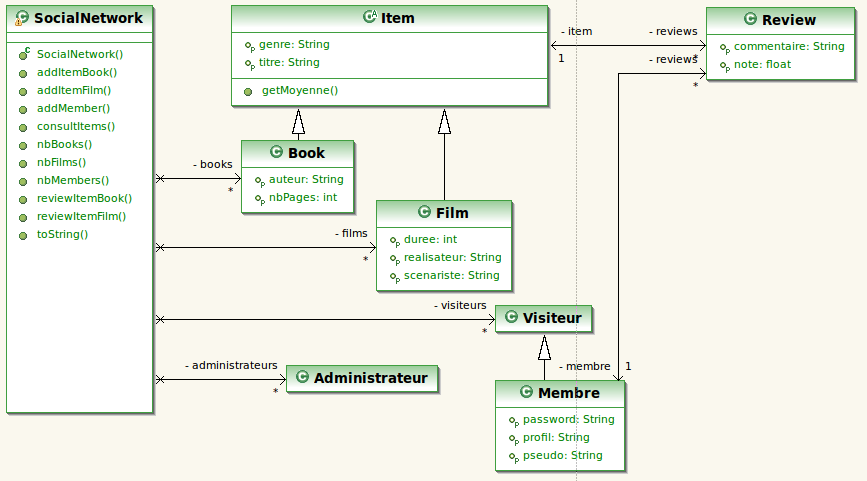
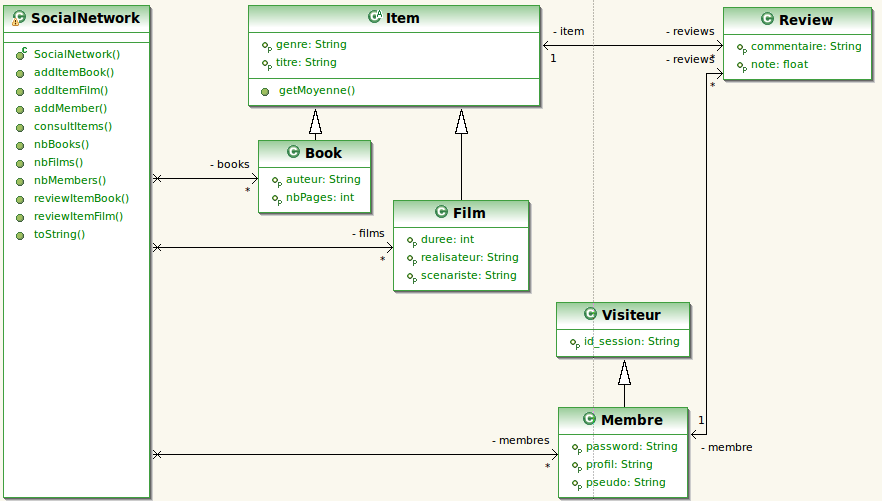
Petite correction

Changed region(s): [[0.0, 0.0, 0.9965, 1.0], [0.218, 0.7484, 0.5294, 0.842], [0.2491, 0.0, 0.3114, 0.0624]]

diff --git a/src/avis/SocialNetwork.java b/src/avis/SocialNetwork.java
@@ -249,59 +249,6 @@ public class SocialNetwork {
 
 
 	/**
-	 * @uml.property  name="visiteurs"
-	 * @uml.associationEnd  multiplicity="(0 -1)" dimension="1" ordering="true" inverse="socialNetwork:avis.Visiteur"
-	 */
-	private LinkedList<Visiteur> visiteurs;
-
-
-	/**
-	 * Getter of the property <tt>visiteurs</tt>
-	 * @return  Returns the visiteurs.
-	 * @uml.property  name="visiteurs"
-	 */
-	public LinkedList<Visiteur> getVisiteurs() {
-		return visiteurs;
-	}
-
-	/**
-	 * Setter of the property <tt>visiteurs</tt>
-	 * @param visiteurs  The visiteurs to set.
-	 * @uml.property  name="visiteurs"
-	 */
-	public void setVisiteurs(LinkedList<Visiteur> visiteurs) {
-		this.visiteurs = visiteurs;
-	}
-
-
-	/**
-	 * @uml.property  name="administrateurs"
-	 * @uml.associationEnd  multiplicity="(0 -1)" dimension="1" ordering="true" inverse="socialNetwork:avis.Administrateur"
-	 */
-	private LinkedList<Administrateur> administrateurs;
-
-
-	/**
-	 * Getter of the property <tt>administrateurs</tt>
-	 * @return  Returns the administrateurs.
-	 * @uml.property  name="administrateurs"
-	 */
-	public LinkedList<Administrateur> getAdministrateurs() {
-		return administrateurs;
-	}
-
-	/**
-	 * Setter of the property <tt>administrateurs</tt>
-	 * @param administrateurs  The administrateurs to set.
-	 * @uml.property  name="administrateurs"
-	 */
-	public void setAdministrateurs(LinkedList<Administrateur> administrateurs) {
-		this.administrateurs = administrateurs;
-	}
-
-
-
-	/**
 	 * @uml.property  name="books"
 	 * @uml.associationEnd  multiplicity="(0 -1)" dimension="1" ordering="true" inverse="socialNetwork:avis.Book"
 	 */
@@ -311,10 +258,11 @@ public class SocialNetwork {
 	 * @uml.associationEnd  multiplicity="(0 -1)" dimension="1" ordering="true" inverse="socialNetwork:avis.Film"
 	 */
 	private LinkedList<Film> films;
-
-
-
-
+	/**
+	 * @uml.property  name="membres"
+	 * @uml.associationEnd  multiplicity="(0 -1)" dimension="1" ordering="true" inverse="socialNetwork:avis.Membre"
+	 */
+	private LinkedList<Membre> membres;
 
 
 }

diff --git a/src/avis/Visiteur.java b/src/avis/Visiteur.java
@@ -3,4 +3,27 @@ package avis;
 
 public class Visiteur {
 
+	/**
+	 * @uml.property  name="id_session"
+	 */
+	private String id_session;
+
+	/**
+	 * Getter of the property <tt>id_session</tt>
+	 * @return  Returns the id_session.
+	 * @uml.property  name="id_session"
+	 */
+	public String getId_session() {
+		return id_session;
+	}
+
+	/**
+	 * Setter of the property <tt>id_session</tt>
+	 * @param id_session  The id_session to set.
+	 * @uml.property  name="id_session"
+	 */
+	public void setId_session(String id_session) {
+		this.id_session = id_session;
+	}
+
 }
